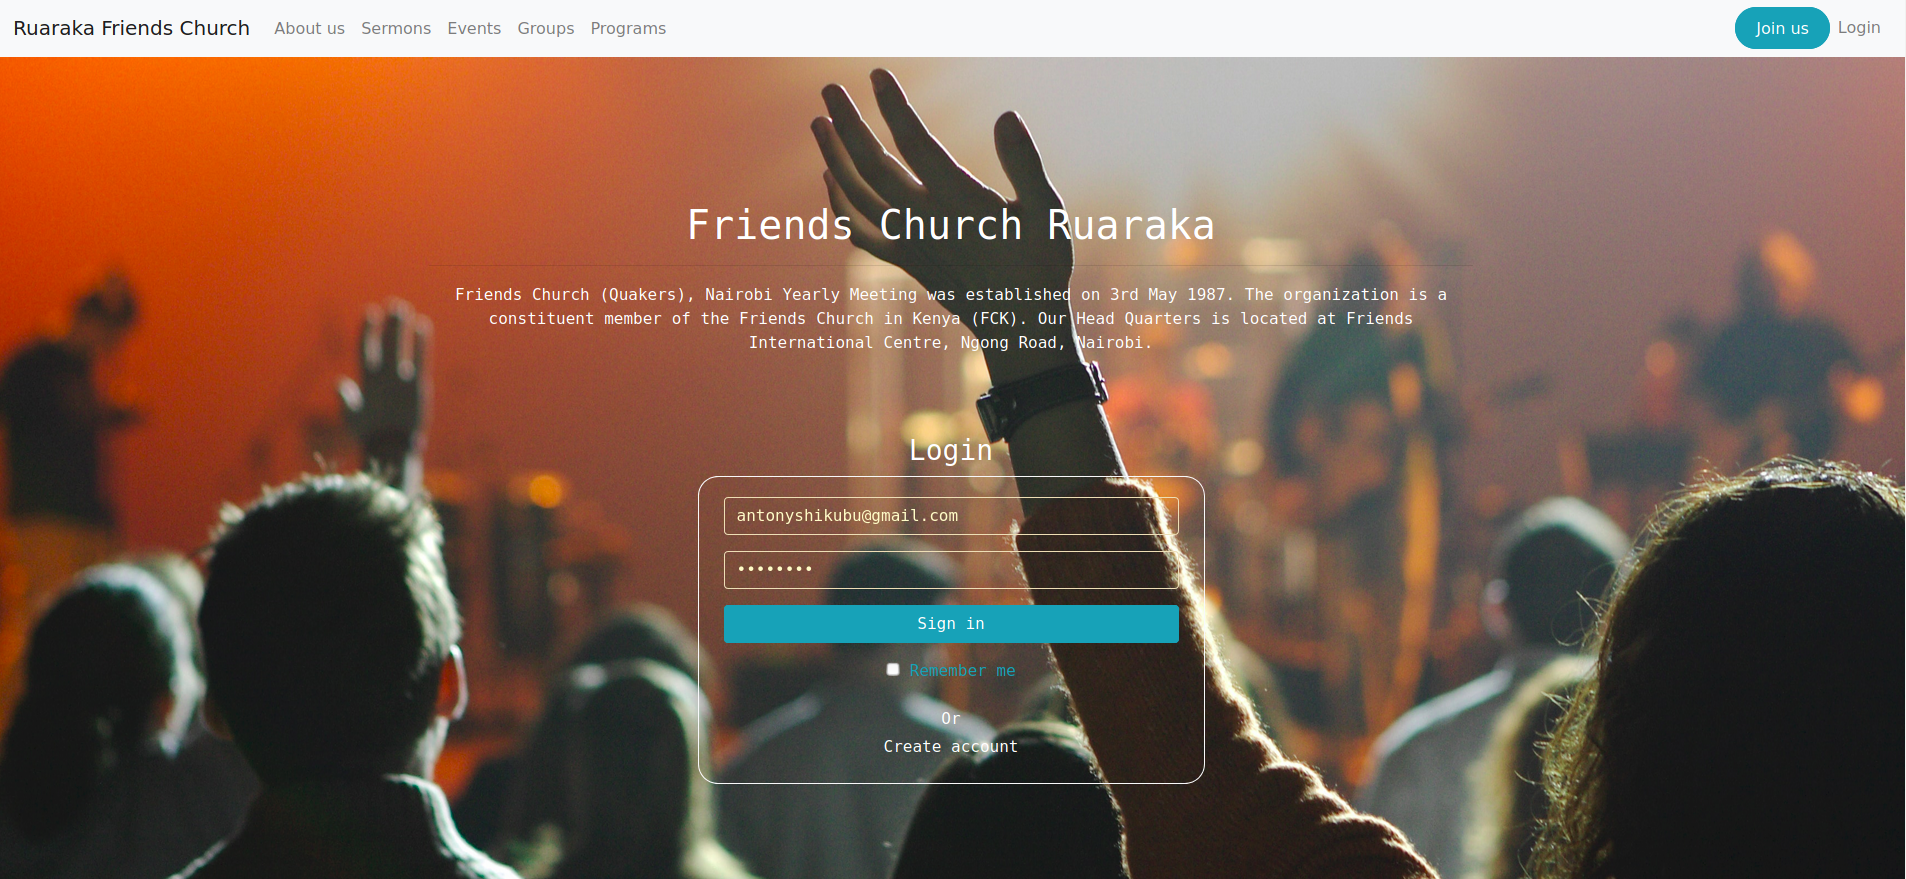
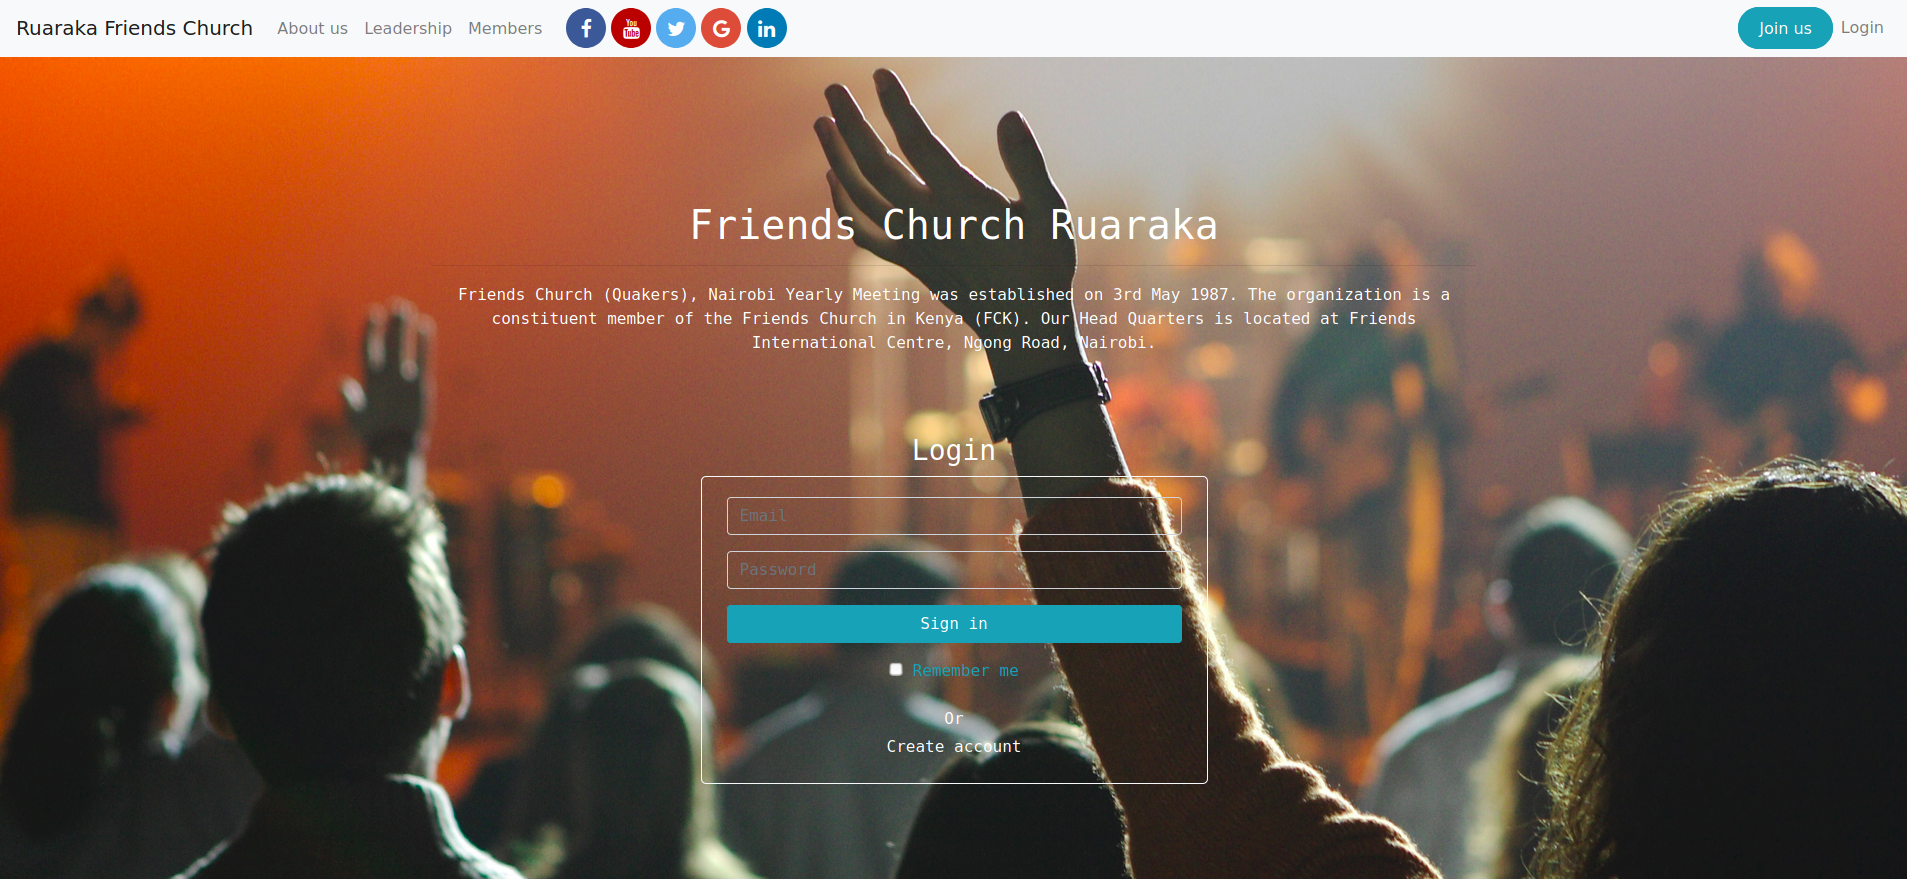
Made changes in the README file

diff --git a/README.md b/README.md
@@ -1,27 +1,14 @@
 # Flask-church-app
 This a simple app built using Python and the flask web framework. This app enables users to follow the sermons and every event of a given church. Dedicated to my home church.
 
-Top part of the website.
-Users of the site can visit:  
-```
-About us 
-Sermons
-Events
-Groups
-Programs
-Signup
-Login
-Logout
-```
+Top section
 ![](https://github.com/AntonyIS/Flask-church-app/blob/master/app/static/imgs/church_shot1.png)
-Bottom(footer) section.
-Users can visit same links as in the navbar easy without scrolling back to the top. Other extra links can also be accessed in the footer section like:
-```
-Site map
-Privacy
-Terms of Use
-```
-![](https://github.com/AntonyIS/Flask-church-app/blob/master/app/static/imgs/footer_img.png)
+
+About us section
+![](https://github.com/AntonyIS/Flask-church-app/blob/master/app/static/imgs/about_us.png)
+
+Leadership section
+![](https://github.com/AntonyIS/Flask-church-app/blob/master/app/static/imgs/leaders.png)
 
 
 Register form
@@ -34,15 +21,8 @@ Login Form
 User Profile
 v![](https://github.com/AntonyIS/Flask-church-app/blob/master/app/static/imgs/user_profile.png)
 
-Church members
-![](https://github.com/AntonyIS/Flask-church-app/blob/master/app/static/imgs/members.png)
-
-
-Church member can post into the website
+User Posting content
 ![](https://github.com/AntonyIS/Flask-church-app/blob/master/app/static/imgs/church_post.png)
-
-About us page
-![](https://github.com/AntonyIS/Flask-church-app/blob/master/app/static/imgs/about_us.png)
 
 Members page
 ![](https://github.com/AntonyIS/Flask-church-app/blob/master/app/static/imgs/members.png)
